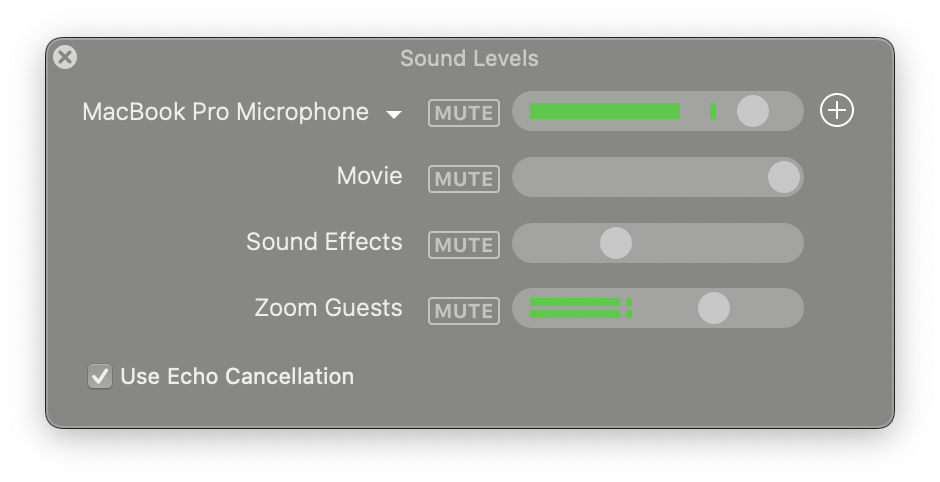
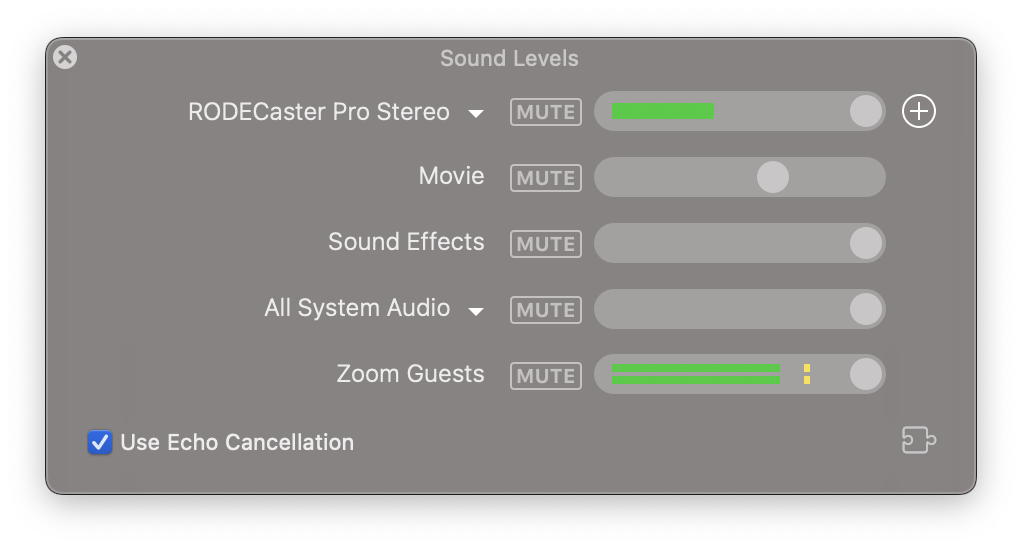
More 4.4 changes

Changed region(s): [[0.0309, 0.0622, 0.9564, 0.9025]]

diff --git a/docs/_ecamm-live-manual/014-adjusting-sound-levels.md b/docs/_ecamm-live-manual/014-adjusting-sound-levels.md
@@ -25,6 +25,8 @@ When [an iOS device is connected](../003-camera-mode/#broadcasting-your-ios-devi
 
 If <samp>Broadcast System Audio</samp> is turned on in the [Audio preferences](../018-other-options/#audio-preferences), you will see system sound levels shown in this window, including a popup menu to select which Mac application's audio should be captured. (Note that this menu is only available when using macOS 14.4 or newer.)
 
+![System Audio Menu](/assets/img/sound-safari.jpg "System Audio Menu"){: width="449px"}
+
 ### Mapping Audio Channels for Stereo
 
 Ecamm Live will automatically broadcast System Audio and movie playback audio in stereo. Audio from a connected microphone or mixer works a bit differently.
@@ -36,6 +38,8 @@ Note that when [Echo Cancellation](#echo-cancellation) is enabled, Ecamm Live wi
 ### Mapping Audio Channels from Multi-Channel Audio Devices
 
 If Ecamm Live detects a multi-channel audio device, (an audio device with more than two channels), a channel mapping icon will show up. Click this icon to view the channel mapping popover. Each channel can be mapped to <samp>Off</samp>, <samp>Mono</samp>, <samp>Left</samp>, or <samp>Right</samp>. 
+
+![Multi-Channel Window](/assets/img/multichannel.jpg "Multi-Channel Window"){: width="449px"}
 
 Note that this feature will not be available if Echo Cancellation is activated.
 
@@ -74,7 +78,7 @@ The Sound Levels window can detect several audio misconfigurations and potential
 
 * *Using Echo Cancellation Along With the Built-in Microphone* can cause microphone issues in other apps such as Skype. A warning will be displayed if Ecamm Live detects that <samp>Echo Cancellation</samp> is being used with the built-in microphone while Skype is also using the built-in microphone.  To prevent this, use a USB microphone instead, or turn off <samp>Echo Cancellation</samp>.
 
-* *Redundant System Audio With Skype* can occur when Ecamm Live is configured to broadcast [System Audio](../004-screenshare-mode/#system-audio) and Skype is set to the default output. Skype audio is picked up automatically by Ecamm Live and picked up again by the System Audio feature, resulting in a doubling effect. Ecamm Live will automatically prevent any echo effect by muting the Skype audio levels. However it will display a warning indicating that the Skype audio level slider and mute button are not being used. To prevent this, turn off the [System Audio](../004-screenshare-mode/#system-audio) feature when using the [Skype Guest](http://support.ecamm.com/en/articles/3323963-remote-guests-via-skype) feature. 
+* *Redundant System Audio With Skype* can occur when Ecamm Live is configured to broadcast [System Audio](../004-screenshare-mode/#system-audio) and Skype is set to the default output. Skype audio is picked up automatically by Ecamm Live and picked up again by the System Audio feature, resulting in a doubling effect. Ecamm Live will automatically prevent any echo effect by muting the Skype audio levels. However it will display a warning indicating that the Skype audio level slider and mute button are not being used. To prevent this, turn off the [System Audio](../004-screenshare-mode/#system-audio) feature when using the [Skype Guest](https://support.ecamm.com/en/articles/3323963-remote-guests-via-skype) feature. 
 
 
 <aside class="notice" markdown="1">

diff --git a/docs/_ecamm-live-manual/001-welcome.md b/docs/_ecamm-live-manual/001-welcome.md
@@ -6,7 +6,7 @@ title: Ecamm Live Manual
 
 ## What can Ecamm Live do?
 
-Ecamm Live is a macOS app designed to give you tremendous control over live streaming, with special capabilities for Facebook Live, YouTube Live, Amazon Live, Twitter Live, LinkedIn Live, Twitch, and Restream.io. Ecamm Live can broadcast to any streaming service that uses *RTMP* streaming.
+Ecamm Live is a macOS app designed to give you tremendous control over live streaming, with special capabilities for Facebook Live, YouTube Live, Amazon Live, X Live, LinkedIn Live, Twitch, and Restream.io. Ecamm Live can broadcast to any streaming service that uses *RTMP* streaming.
 
 Why would you choose to use a Mac app to live stream, when you can stream straight from your web browser, or mobile device? Because Ecamm Live gives you superpowers…
 * Stream to up to **10 destinations** simultaneously.
@@ -15,10 +15,10 @@ Why would you choose to use a Mac app to live stream, when you can stream straig
 * **Conduct live video interviews** with up to 10 remote guests. (Up to 4 guests on Intel-based Macs.)
 * **Record individual audio and video tracks** to your Mac.
 * **Add text, scrolling tickers, images, shapes, countdowns, web pages, PDFs and animations to your broadcast as overlays**, on-the-fly, or build them ahead of time.
-* When broadcasting to Facebook Live, Instagram, YouTube Live, Amazon Live, X (Twitter), Restream, and Twitch **view a live feed of your comments and reactions.** 
+* When broadcasting to Facebook Live, Instagram, YouTube Live, Amazon Live, X, Restream, and Twitch **view a live feed of your comments and reactions.** 
 * Send your production into other Mac apps via Ecamm's **Virtual Camera** and **Virtual Mic**.
 * **Add viewer comments to your broadcast.** Simply drag them onto the window and they appear automatically as overlays.
-* **Use external video sources** including **HDMI** sources, **Canon DSLRs**, NDI inputs and more. 
+* **Use external video sources** including **HDMI** sources, **mirrorless and DSLR cameras**, NDI inputs and more. 
 * **Switch easily between all video sources** with a click or keyboard shortcut.
 * **Share your screen:** put any window, app, or display from your Mac right into your stream. This also enables the use of presentation software, such as **Apple Keynote, or Microsoft PowerPoint.**
 * **Roll pre-recorded video files** into your broadcast.
@@ -41,7 +41,7 @@ Incredible, right? Must be difficult? *Challenge accepted.*
 * A 6 Mbps upload speed is required for HD quality 1080p video streaming.
 * To broadcast to streaming services, you must have an account with that service.
 * To host using [Interview mode](../008-interview-mode/), we recommend at least a 10 Mbps internet connection.
-* An Apple Silicon (M1 or M2) Mac is required for isolated video recording.
+* An Apple Silicon (M-series) Mac is required for isolated video recording.
 * Intel-based Macs are limited to 4 Interview guests. (Apple Silicon Macs support up to 10 guests.)
 
 

diff --git a/docs/_ecamm-live-manual/002-the-main-window.md b/docs/_ecamm-live-manual/002-the-main-window.md
@@ -13,7 +13,7 @@ Upon opening Ecamm Live, you’ll be greeted by the Main Window, and several sma
 
 The Main Window is your monitor of what your audience sees, except the tools we’ve laid on top of this window—and your cursor—which are only visible to you. You can resize the Main Window by dragging from any edge or corner of the window.
 
-The smaller windows are for control of [Sound Levels](../014-adjusting-sound-levels), [Scenes](../007-using-scenes), [Overlays](../006-using-overlays), [Camera Switcher](../009-camera-switcher/), [Camera Effects](../010-camera-effects/), [Interview mode](../008-interview-mode/), and [Comments and Reactions.](../012-streaming/#comments-and-reactions) If you dismiss any of these windows, you can bring them back by visiting the <samp>Window</samp> menu at the very top of your Mac’s display. Additionally, each of these windows has a keyboard [shortcut assigned](https://support.ecamm.com/en/articles/3372157-ecamm-live-hot-keys) for easy access.
+The smaller windows are for control of [Sound Levels](../014-adjusting-sound-levels), [Scenes](../007-using-scenes), [Overlays](../006-using-overlays), [Camera Switcher](../009-camera-switcher/), [Camera Effects](../010-camera-effects/), [Interview mode](../008-interview-mode/), [Zoom](../008-adding-zoom), and [Comments and Reactions.](../012-streaming/#comments-and-reactions) If you dismiss any of these windows, you can bring them back by visiting the <samp>Window</samp> menu at the very top of your Mac’s display. Additionally, each of these windows has a keyboard [shortcut assigned](https://support.ecamm.com/en/articles/3372157-ecamm-live-hot-keys) for easy access.
 
 [![Figure\: Annotated Main Window with labels](/assets/img/mainwindow.png "Click for full-size image.")
 ](/assets/img/mainwindow.png)
@@ -29,8 +29,6 @@ For streaming, turn on the <samp>Stream</samp> toggle switch. This will activate
 To record your stream, turn on the <samp>Record</samp> switch.
 
 For [Record-Only mode](../013-recording-your-broadcasts/#record-only-mode), turn off <samp>Stream</samp> and turn on <samp>Record</samp>.
-
-Use the <samp>Virtual Cam</samp> switch to activate Ecamm Live's [Virtual Cam](../016-virtual-webcam-and-outputs/) and [Virtual Mic](../016-virtual-webcam-and-outputs/#virtual-mic-pro-only).
 
 ## Scene Selector
 
@@ -66,6 +64,8 @@ The right side of the Main Window contains buttons for the Camera Switcher, Over
 {% inlineicon comment 35 graybutton %}Comments Button{% endinlineicon %} [Comments](../012-streaming/#comments-and-reactions)
 
 {% inlineicon interview 35 graybutton %}Interview Button{% endinlineicon %} [Interview](../008-interview-mode/)
+
+{% inlineicon zoom 35 graybutton %}Zoom Button{% endinlineicon %} [Zoom](../008-adding-zoom/)
 
 {% inlineicon preferences 35 graybutton %}Preferences Button{% endinlineicon %} [Preferences](../018-other-options)
 

diff --git a/docs/_ecamm-live-manual/003-camera-mode.md b/docs/_ecamm-live-manual/003-camera-mode.md
@@ -18,7 +18,7 @@ HDMI encoders (also sometimes called video capture cards) such as the [Elgato Ca
 
 #### DSLR and Mirrorless Cameras via USB
 
-You can use [most DSLR or mirrorless cameras](http://support.ecamm.com/en/articles/3968730-connecting-your-dslr-or-mirrorless-camera-via-usb) with Ecamm Live without any extra hardware or software. Connect your camera to your Mac's USB port. Your camera will now be an option in Ecamm Live's <samp>Camera</samp> menu. If the camera provides HDMI output, and you have a video capture device, use the HDMI Encoder method above instead for better video quality.
+You can use [most DSLR or mirrorless cameras](https://support.ecamm.com/en/articles/3968730-connecting-your-dslr-or-mirrorless-camera-via-usb) with Ecamm Live without any extra hardware or software. Connect your camera to your Mac's USB port. Your camera will now be an option in Ecamm Live's <samp>Camera</samp> menu. If the camera provides HDMI output, and you have a video capture device, use the HDMI Encoder method above instead for better video quality.
 
 #### Blackmagic Devices
 
@@ -27,9 +27,9 @@ We've built in special support for cameras connected to your Mac through [Blackm
 **Blackmagic Tip:** If you aren't seeing video from your Blackmagic device, it may need a setting changed. Open Blackmagic's "Desktop Video Setup" application in your Applications folder. Ensure that the device's video input is set to HDMI instead of SDI.
 {: .notice}
 
-#### Newtek NDI® Cameras
+#### NDI Cameras
 
-Ecamm Live will automatically detect [Newtek NDI®](https://www.newtek.com/ndi/) input sources, such as the [NDI HX app](https://apps.apple.com/us/app/ndi-hx-camera/id1477266080). NDI sources will show up as cameras in Ecamm Live's camera list, and as a microphone in Ecamm Live's microphone list.
+Ecamm Live will automatically detect [NDI](https://ndi.video) input sources. NDI sources will show up as cameras in Ecamm Live's camera list, and as a microphone in Ecamm Live's microphone list.
 
 #### RTSP Cameras (Also called Network Cameras or IP Cameras)
 

diff --git a/docs/_ecamm-live-manual/008-interview-mode.md b/docs/_ecamm-live-manual/008-interview-mode.md
@@ -2,11 +2,11 @@
 
 ---
 
-Ecamm Live's Interview feature provides the ability to add remote video guests to your broadcast. Guests join via their web browser on a Mac, Windows PC, iOS device, or Android device. Up to ten remote guests can join a broadcast on an Apple Silicon (M1 or M2) mac.  Intel-based Macs are limited to four remote guests.
+Ecamm Live's Interview feature provides the ability to add remote video guests to your broadcast. Guests join via their web browser on a Mac, Windows PC, iOS device, or Android device. Up to ten remote guests can join a broadcast on an Apple Silicon (M-series) mac.  Intel-based Macs are limited to four remote guests.
 
 ## Host System Requirements
 
-- To host using Interview, we recommend an iMac, Mac Mini or MacBook Pro manufactured in 2015 or newer, and at least a 10 Mbps internet connection. 
+- To host using Interview, we recommend an iMac, Mac Mini, Mac Studio, or MacBook Pro manufactured in 2015 or newer, and at least a 10 Mbps internet connection. 
 
 - Intel-based Macs are limited to four remote guests.
 
@@ -129,6 +129,8 @@ Note that once a guest has been assigned to a placeholder, if the guest disconne
 Ecamm Live can automatically add an on-screen title to the host and guests. To show the title, click the {% inlineicon hidet 15 inverted %}Title{% endinlineicon %} button next to the host or guest name. Click the button again to hide the title.
 
 Each title's visibility is a Scene-based setting, meaning it can be hidden or shown for each Scene in your broadcast.
+
+Automatic titles can also be added to [Camera Overlays](../006-using-overlays/#camera-overlays) by checking the <samp>Show Guest Name</samp> checkbox in the Overlay's settings popover.
 
 #### Changing Title Style
 

diff --git a/docs/_ecamm-live-manual/008-adding-zoom.md b/docs/_ecamm-live-manual/008-adding-zoom.md
@@ -17,7 +17,7 @@ Other features include:
 
 ## Host System Requirements
 
-- To use Ecamm Live's Zoom integration we recommend an iMac, Mac Studio, Mac Mini or MacBook Pro manufactured in 2020 or newer, and at least a 10 Mbps internet connection. 
+- To use Ecamm Live's Zoom integration we recommend an iMac, Mac Studio, Mac Mini, Mac Studio, or MacBook Pro manufactured in 2020 or newer, and at least a 10 Mbps internet connection. 
 
 - An [Ecamm Live Pro plan](https://appg2.ecamm.com/users/pricingplans) is required.
 
@@ -201,7 +201,7 @@ Once capture has started, Zoom audio will be mixed into your broadcast or record
 
 Zoom participants audio is automatically added to your recording or broadcast. To adjust the volume level or mute the incoming Zoom meeting audio, use the [Sound Levels window](../014-adjusting-sound-levels/). When a Zoom account is linked to Ecamm Live, you'll see a <samp>Zoom Guests</samp> volume control and <samp>MUTE</samp> button. Note that the <samp>MUTE</samp> button's state is part of the current [Scene](../007-using-scenes).
 
-![Figure\: The Sound Levels Window](/assets/img/zoom_sound.png "The Sound Levels Window"){:width="370"}
+![Figure\: The Sound Levels Window](/assets/img/zoom_sound.png "The Sound Levels Window"){:width="449px"}
 
 ## Running Your Show
 

diff --git a/docs/_ecamm-live-manual/012-streaming.md b/docs/_ecamm-live-manual/012-streaming.md
@@ -33,7 +33,7 @@ The {% inlineicon sharebutton 15 %}share{% endinlineicon %} buttons in the statu
 
 ### Comments and Reactions
 
-During broadcasts, any chat comments your viewers post in Facebook, Instagram, YouTube, Twitch, Amazon Live, X (Twitter), or Restream will be displayed in the Comments and Reactions window. Reactions from Facebook and YouTube will also be displayed. If you don't see this window, pick it from the <samp>Windows</samp> menu at the top of the screen. 
+During broadcasts, any chat comments your viewers post in Facebook, Instagram, YouTube, Twitch, Amazon Live, X, or Restream will be displayed in the Comments and Reactions window. Reactions from Facebook and YouTube will also be displayed. If you don't see this window, pick it from the <samp>Windows</samp> menu at the top of the screen. 
 
 During a broadcast, if there are comments, you'll see a {% inlineicon comment 20 graybutton %}Comment Button{% endinlineicon %} button in the bottom left-hand corner of the Main Window to reveal the Comments and Reactions window.
 

diff --git a/docs/_ecamm-live-manual/006-using-overlays.md b/docs/_ecamm-live-manual/006-using-overlays.md
@@ -229,6 +229,14 @@ A Screenshare Overlay will show up in the center of the Main Window.
 
 In the Screenshare Overlay's [settings popover](#the-overlay-settings-popover), screenshare source and shape options will appear. If you need a shape that isn't listed in the shape menu, pick <samp>Custom</samp> from the list of shapes. Then adjust the shape by dragging the Overlay from any corner.  
 
+#### Zoom To App Windows
+
+Check this checkbox to automatically adjust the size of the screen capture to just the window being shared.
+
+#### Include Desktop
+
+Check this checkbox to include the desktop image and icons. When sharing an individual app or app window, unchecking this checkbox will result in a transparent background.
+
 #### Activate System Audio Capture
 
 Check this checkbox to automatically turn on system audio capture when the overlay is visible. This option requires setting <samp>Broadcast System Audio</samp> to <samp>When Sharing The Screen</samp> in Ecamm Live's [Audio Preferences](../018-other-options#broadcast-system-audio).

diff --git a/docs/_ecamm-live-manual/011-creating-and-scheduling.md b/docs/_ecamm-live-manual/011-creating-and-scheduling.md
@@ -34,7 +34,7 @@ To add a destination for any RTMP-capable service, you'll need two pieces of inf
 
 ##### Stream Key Login and Password
 
-Rarely, some RTMP services may require a login and password. ([Dacast](http://dacast.com) is one example.) Use the <samp>Provide Login and Password</samp> checkbox to add this.
+Rarely, some RTMP services may require a login and password. ([Dacast](https://dacast.com) is one example.) Use the <samp>Provide Login and Password</samp> checkbox to add this.
 
 ### Creating a New Broadcast
 
@@ -64,7 +64,7 @@ Business pages that have crossposting relationships will be listed here automati
 
 <samp>Made For Kids</samp> Indicating that a YouTube broadcast is Made For Kids will disable features such as Live Chat.
 
-<samp>Twitter Latency</samp> Choose Low to enhance interaction with your audience by reducing buffering delay.
+<samp>X Latency</samp> Choose Low to enhance interaction with your audience by reducing buffering delay.
 
 ### Scheduling Your Broadcast
 

diff --git a/docs/_ecamm-live-manual/016-virtual-webcam-and-outputs.md b/docs/_ecamm-live-manual/016-virtual-webcam-and-outputs.md
@@ -52,7 +52,7 @@ Once activated, Audio Monitor will remain on until it is turned off in the <samp
 
 ## Sharing Window (Pro Only)
 
-Ecamm Live's  Sharing Window feature can be used to send Ecamm Live's output into Zoom. This is an alternative to using the Virtual Camera feature, and may provide a higher resolution when screen sharing. Details on using the Sharing Window [can be found here](http://support.ecamm.com/en/articles/4004884-ecamm-live-s-sharing-window-pro-only).
+Ecamm Live's  Sharing Window feature can be used to send Ecamm Live's output into apps that support window capture. This is an alternative to using the Virtual Camera feature, and may provide a higher resolution in some situations. Details on using the Sharing Window [can be found here](https://support.ecamm.com/en/articles/4004884-ecamm-live-s-sharing-window-pro-only).
 
 
 ## NDI Output (Pro Only)
